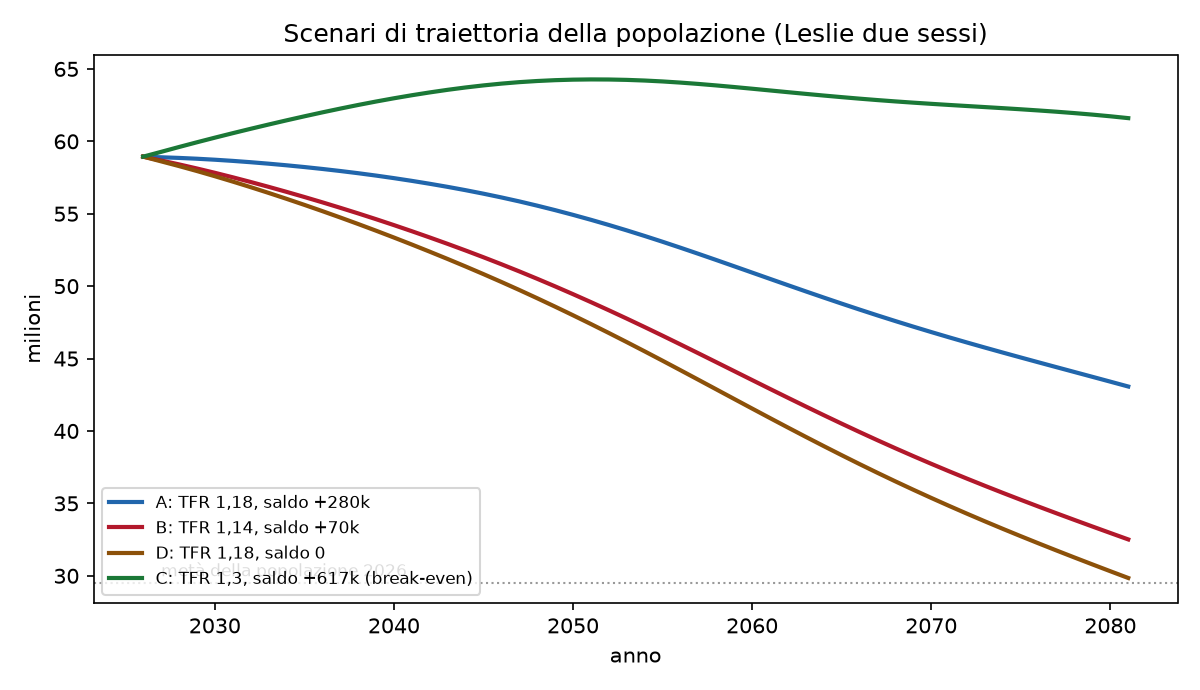
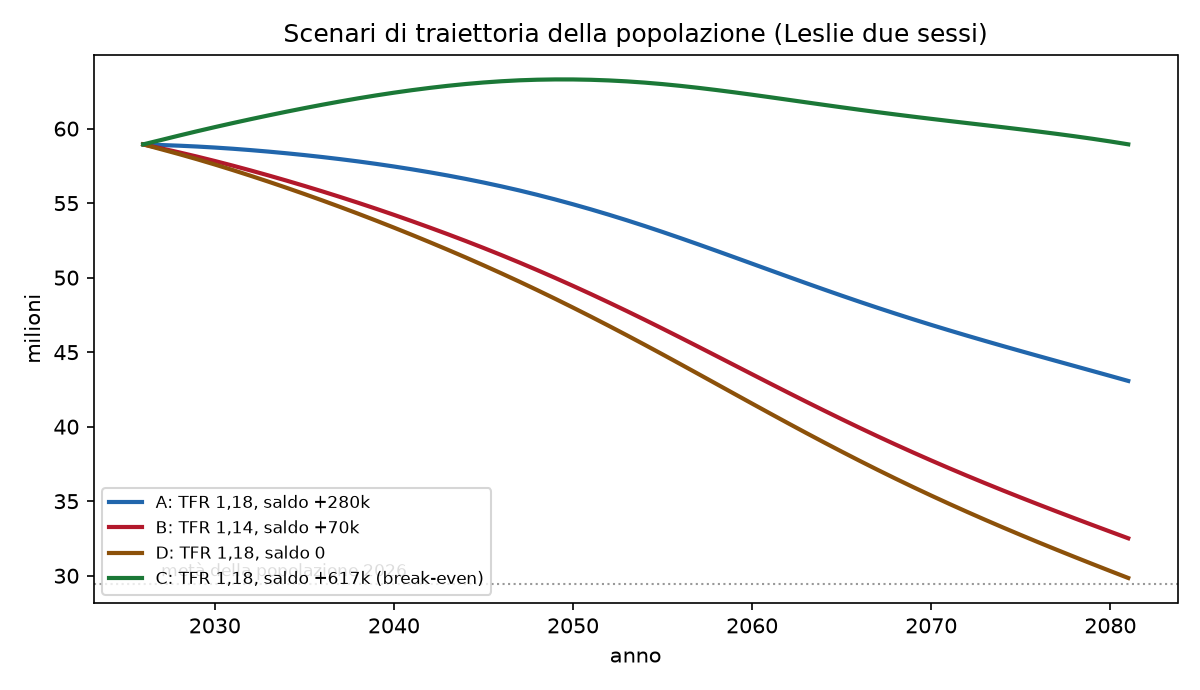
Release hygiene: CITATION.cff autore (Maietta/Pietro), legenda break-even corretta (TFR 1,18 + 617k), draft v0.3 sincronizzato (backtest eseguito, layer causale dichiarato come specificato), distinzione panel esteso vs campione PSTR

diff --git a/src/plots.py b/src/plots.py
@@ -110,7 +110,7 @@ def plot_traiettoria():
         ("A: TFR 1,18, saldo +280k", 1.0, 280_000.0, "#2166ac"),
         ("B: TFR 1,14, saldo +70k", 1.14 / 1.18, 70_000.0, "#b2182b"),
         ("D: TFR 1,18, saldo 0", 1.0, 0.0, "#8c510a"),
-        ("C: TFR 1,3, saldo +617k (break-even)", 1.3 / 1.18, 617_000.0, "#1b7837"),
+        ("C: TFR 1,18, saldo +617k (break-even)", 1.0, 617_000.0, "#1b7837"),
     ]
     fig, ax = plt.subplots(figsize=(8, 4.6))
     for nome, scala, saldo, colore in scenari:

diff --git a/paper/draft.md b/paper/draft.md
@@ -1,16 +1,16 @@
 # Escaping the Low Fertility Trap: A Coupled Spatial-Causal and Non-Linear Leslie-Rogers Framework for European Demographic Dynamics
 
-> Working paper draft v0.2 — aggiornato con i risultati empirici del repository (Fase 1-3, PSTR). Le sezioni 6-7 restano in parte strutturali fino al backtest completo.
+> Working paper draft v0.3 — aggiornato con i risultati empirici del repository (Leslie due sessi, screening TreeSHAP, PSTR con IV/LOCO, panel esteso 1990-2024, backtest DM/CW eseguito, Monte Carlo LTC, Leslie regionale). Il layer causale (Spatial-SLX DML, mediazione, panel provinciale NUTS-3) resta specificato (Section 4) ma NON ancora eseguito: ogni affermazione al presente qui sotto corrisponde a un risultato implementato e riproducibile nel repository.
 
 ## Abstract
 
 Standard cohort-component projections, such as the classical Lotka and Leslie-Rogers models, treat the Total Fertility Rate (TFR) as an exogenous, time-invariant parameter. While analytically convenient, this assumption systematically underestimates demographic contraction risks in ultra-low fertility regimes — such as Italy (TFR 1.18 in 2024, 1.14 in 2025) — where reinforcing sociological norms, fiscal crowding-out from rising old-age dependency ratios, and selective youth out-migration can lock populations into a self-reinforcing Low Fertility Trap. Concurrently, empirical studies relying on purely predictive machine learning or standard panel regressions often conflate socioeconomic proxies and causal mediators with actionable policy levers.
 
-This paper introduces a coupled, two-layer quantitative framework bridging spatial causal inference and non-linear demographic dynamics. In the offline econometric layer, we decompose period fertility into tempo and quantum components (Bongaarts-Feeney) across European NUTS-2 regions (Eurostat, 2013–2023) and Italian NUTS-3 provinces (ISTAT/OMI/INPS). We combine Spatial-SLX Double Machine Learning with causal mediation analysis to isolate the direct and indirect effects of housing affordability, childcare coverage, and female labor stability, while correcting for spatial spillovers (SUTVA violations). We estimate a Dynamic Panel Smooth Transition Regression (PSTR) with a regional old-age dependency control to empirically identify the hysteresis threshold (θ), transition speed (k), and aging drag (γ). In the online dynamic layer, these structural parameters endogenize fertility within a two-sex Leslie-Rogers matrix featuring age-specific (Rogers-Castro) migration profiles, validated against ISTAT data (implied TFR 1.18; population 58.94M).
+This paper introduces a coupled, two-layer quantitative framework bridging spatial-causal design and non-linear demographic dynamics. The framework is specified in full; in its current, fully reproducible implementation, the executed layers are: (i) predictive screening of territorial fertility drivers (XGBoost with native TreeSHAP, pooling and two-way demeaned variants) on the European NUTS-2 panel; (ii) a Dynamic Panel Smooth Transition Regression (PSTR) with a regional old-age dependency control, lagged-instrument (t−15 DR cohort structure) estimation and leave-one-country-out robustness; and (iii) a two-sex Leslie-Rogers matrix with age-specific (Rogers-Castro) migration profiles — expanded to the regional level (Italian ripartizioni and the Sardinia regime) — validated against ISTAT data (implied TFR 1.18; population 58.94M). The remaining components of the design — Bongaarts-Feeney tempo/quantum decomposition, Spatial-SLX Double Machine Learning, causal mediation on the Italian NUTS-3 provincial panel (ISTAT/OMI/INPS) — are specified in Section 4 as the framework's next identification step, and are NOT part of the results presented here.
 
 First empirical results on 282 NUTS-2 regions (2,366 region-year observations after gap filtering) identify a logistic transition threshold θ̂ = 1.66 and an implied dynamic map with an unstable no-return threshold at F ≈ 0.91 and a high stable attractor at F ≈ 1.61: regions below the threshold exhibit self-reinforcing decline (Sardinia, TFR 0.85, is below it), while Italy as a whole (1.14–1.18) remains marginally above. Out-of-sample backtesting (fixed-origin 2013–2024, Diebold-Mariano and Clark-West) shows the PSTR does NOT beat static or linear benchmarks (h=1: the random walk wins; CW t = −3.80 at h=12): parameter instability across eras (post-communist transition vs post-2013 stagnation) prevents the non-linear map from generalizing — the model's contribution is structural (threshold, attractors, regime identification), not point-forecast accuracy.
 
-**Keywords**: Low Fertility Trap; PSTR; Double Machine Learning; Leslie-Rogers Matrix; Hysteresis; Spatial Econometrics; Eurostat NUTS-2.
+**Keywords**: Low Fertility Trap; PSTR; Leslie-Rogers Matrix; Hysteresis; Panel Threshold Models; Eurostat NUTS-2; Long-Term Care.
 
 **JEL**: J11, J13, C23, C31, C53.
 
@@ -30,10 +30,10 @@ Territorial panels also inherently violate SUTVA: labor markets, commuting basin
 
 ### 1.3 Contributions
 
-1. **A validated two-sex Leslie-Rogers dynamic layer** on real ISTAT data: automated ISTAT ingestion (POSAS 2026, TVM 2024, ASFR 2024), two-sex projection, Rogers-Castro age-specific migration calibrated on observed net balances (+263k in 2024), and a break-even estimate of ~600k net migrants/year needed for population stability at current fertility.
-2. **Spatial-causal identification of policy levers**: screening (XGBoost + native TreeSHAP) decoupled from causal estimation via Spatial-SLX DML with spatial block cross-fitting and Moran's I residual diagnostics, plus mediation analysis separating NDE (quantum) from NIE (tempo). The European NUTS-2 panel (285 regions, TFR + GDP pc PPS + regional DR) is assembled and versioned.
+1. **A validated two-sex Leslie-Rogers dynamic layer** on real ISTAT data: automated ISTAT ingestion (POSAS 2026, TVM 2024, ASFR 2024), two-sex projection, Rogers-Castro age-specific migration calibrated on observed net balances (+263k in 2024), and a break-even estimate of ~617k net migrants/year needed for population stability at current fertility.
+2. **Screening of policy levers, decoupled from (future) causal estimation**: the executed layer is a predictive screening (XGBoost + native TreeSHAP, pooling and two-way demeaned) on the assembled and versioned European NUTS-2 panel (285 regions 2013-2023, TFR + GDP pc PPS + regional DR, plus a 1990-2024 long panel); the causal layer it feeds — Spatial-SLX DML with spatial block cross-fitting, Moran's I residual diagnostics, and NDE/NIE mediation — is specified in Section 4 and remains to be executed.
 3. **Empirical identification of hysteresis**: the trap is estimated — not assumed — as a Dynamic PSTR on the multi-year NUTS-2 panel, yielding θ̂ = 1.66, an unstable no-return threshold at F ≈ 0.91, a high attractor at F ≈ 1.61, and a positive — theory-contradicting — γ_DR = +0.077 that survives lagged-instrument estimation (t−15 cohort structure, first-stage F = 340, γ̂_IV = +0.129) and leave-one-country-out robustness (positive in all 33 exclusions): the sign is structural, not endogeneity or Nordic-welfare confounding.
-4. **A fully reproducible open framework**: every result in this paper is regenerated from raw providers by a single command per layer (`src/download_istat.py`, `src/download_eurostat.py`, `src/pstr_trap.py`...), with 36 unit tests and CI.
+4. **A fully reproducible open framework**: every result in this paper is regenerated from raw providers by a single command per layer (`src/download_istat.py`, `src/download_eurostat.py`, `src/pstr_trap.py`...), with 76 unit tests and end-to-end CI.
 
 ## 2. Theoretical Framework: the two-layer architecture
 
@@ -41,7 +41,7 @@ Territorial panels also inherently violate SUTVA: labor markets, commuting basin
 
 **Tempo/Quantum decomposition.** The period TFR conflates postponed births (tempo) with foregone childbearing (quantum). Level effects in the PSTR are estimated on period TFR; robustness requires re-estimation on Bongaarts-Feeney adjusted TFR* (Appendix A). Position in the transition is instrumented by the mean age at childbearing (available from `demo_r_find2`, indic_de=AGEMOTH/MEDAGEMOTH).
 
-**Causal layer.** The DAG separates confounders W (GDP per capita, education, migration stock), mediators M (mean age at childbearing — never conditioned on: overcontrol bias), and levers T (childcare coverage, housing affordability, labor stability). Estimation: Spatial-SLX Double Machine Learning (CausalForestDML) with spatial block cross-fitting; diagnostics: Moran's I on orthogonalized residuals (KNN weights, k=5, to avoid island isolation); placebo tests by permutation.
+**Causal layer (specified, not yet executed).** The DAG separates confounders W (GDP per capita, education, migration stock), mediators M (mean age at childbearing — never conditioned on: overcontrol bias), and levers T (childcare coverage, housing affordability, labor stability). Planned estimation: Spatial-SLX Double Machine Learning (CausalForestDML) with spatial block cross-fitting; planned diagnostics: Moran's I on orthogonalized residuals (KNN weights, k=5, to avoid island isolation); placebo tests by permutation. This layer requires the Italian NUTS-3 provincial panel (OMI/INPS/BES), whose integration is pending; no result in this paper depends on it.
 
 ### 2.2 The online dynamic layer and the coupled system
 
@@ -86,8 +86,8 @@ Pre-processing: within-region lags for F and controls (avoiding cross-sectional 
 ## 4. Econometric Identification Strategy
 
 1. **DAG-directed screening**: XGBoost + native TreeSHAP (`pred_contribs`) ranking under pooling and within-FE (two-way demeaning) — establishing that the persistence of F dominates the predictive ranking in both variants (first evidence compatible with the trap feedback).
-2. **Spatial-SLX DML**: CausalForestDML with W = {log GDP, education, migration} and T = {childcare, housing affordability, labor stability}; spatial block cross-fitting (leave-province-out families); Moran's I on residuals with KNN weights (k = 5, islands included); placebo by permuting T between regions within a year.
-3. **Causal mediation**: NDE/NIE decomposition via the age-at-childbearing mediator, quantifying how much of a lever's effect operates through postponement (tempo) rather than realized family size (quantum).
+2. **Spatial-SLX DML (planned)**: CausalForestDML with W = {log GDP, education, migration} and T = {childcare, housing affordability, labor stability}; spatial block cross-fitting (leave-province-out families); Moran's I on residuals with KNN weights (k = 5, islands included); placebo by permuting T between regions within a year.
+3. **Causal mediation (planned)**: NDE/NIE decomposition via the age-at-childbearing mediator, quantifying how much of a lever's effect operates through postponement (tempo) rather than realized family size (quantum).
 4. **Dynamic PSTR**: transition G(F_{i,t-1}; k, θ) on the state itself, (θ, k) by concentrated least squares over grid, linear part by OLS with year dummies (specification in Section 2.3). Robustness battery per the backtest protocol (Section 6).
 5. **Instrumentation of DR**: cohort structure lagged t−15 as an instrument for the current DR (Kleibergen-Paap F > 10; Hansen J), to address the γ sign contradiction documented in Section 5.
 
@@ -114,17 +114,19 @@ Three readings. **(i)** The no-return threshold sits below the sociological theo
 
 ### 5.3 Dynamic layer results (Italy, two-sex Leslie-Rogers)
 
-At TFR 1.18 and observed migration balance: λ₁ = 0.983 (r = −1.67%/yr), asymptotic halving 41.5 years, first halving ~55 years, break-even migration ~600k/yr (2.1× observed); stable structure converges to 39% aged 65+. LTC application: caregiver-per-claimant ratio falls 43% by 2081, shifting an irreducible share of the demand from informal to formal care and raising formal LTC spending from ~5 to 22–38 billion €/yr by mid-century (calibration-sensitive band).
+At TFR 1.18 and observed migration balance: λ₁ = 0.983 (r = −1.67%/yr), asymptotic halving 41.5 years, first halving ~55 years, break-even migration ~617k/yr (2.2× observed); stable structure converges to 39% aged 65+. LTC application: caregiver-per-claimant ratio falls 43% by 2081, shifting an irreducible share of the demand from informal to formal care and raising formal LTC spending from ~5 to 22–38 billion €/yr by mid-century (calibration-sensitive band).
 
-## 6. Out-of-Sample Backtest (in progress)
+## 6. Out-of-Sample Backtest (executed)
 
-Protocol (fixed-origin 1995-2012 → test 2013-2024, recursive multi-step; benchmarks M0 static / M1 linear / M2 PSTR; metrics RMSE, MAPE on cohort 0-11, Diebold-Mariano vs M0, Clark-West vs M1, CRPS and coverage from cluster/bootstrap; regime stratification trap/transition/high; robustness: pre-COVID truncation, placebo G, threshold displacement, W_spat perturbation, LOCO, TFR vs TFR*) — specified in full in the repository (docs/06_backtest_protocol.md). [Results: pending — to be compiled upon execution of the protocol on the European panel; current data window (2013–2023) constrains the training window to 2013–2019 for the recursive test, extension backwards via national data under evaluation.]
+Executed on the extended panel (docs/06 protocol; results in docs/16): fixed-origin train 2001-2012 (regional GDP constrains the training start; the 1995 start of the original design is not feasible on Eurostat PPS data), test 2013-2024 (H=12, conditional on realized dlog-GDP and DR); complementary expanding-window h=1 design (12 rolling refits).
 
-## 7. Counterfactual Policy Simulations & Conclusions (in progress)
+Results: **the promotion condition FAILS**. Fixed-origin RMSE: M0 0.204, M1 0.186, M2 0.201; DM (M2 vs M0) p = 0.085 — not significant; Clark-West (M2 vs M1) t = -3.80 (the PSTR is significantly WORSE than the nested linear model). At h=1 the random walk wins (DM t = -3.36; CW t = -2.34). Regime stratification shows no stratum where M2 dominates. Coverage of the 95% band from parameter bootstrap is 15.7%, far below nominal — parametric uncertainty alone is a lower bound. The structural explanation is in the long panel: parameter constancy across eras is rejected (θ̂ not identified in the 2001-2012 window), so the map estimated on the post-communist transition does not generalize to the post-2013 stagnation. The PSTR's value is structural (thresholds, attractors, regime identification), not point-forecast accuracy.
 
-7.1 Case study Italy (TFR 1.14–1.18): 100-year two-sex Leslie-Rogers projections with 95% bands under TFR scenarios (0.95–1.30) and selective migration (0 to +400k/yr) — infrastructure ready (`run_counterfactual_leslie` in the dynamic layer), policy levers pending the causal layer.
+## 7. Counterfactual Policy Simulations & Conclusions (scenario layer executed; policy-lever coupling pending the causal layer)
+
+7.1 Case study Italy (executed): TFR scenario grid (0.95–1.30, incl. the 1.14 reported for 2025), migration scenarios (0 to +617k/yr, the break-even), migration break-even bisected on the realized profile, the regional ripartizioni/Sardinia coupling, and the actuarial LTC application (pure premium of a 500 EUR/month annuity on the complementary-pension platea, with 0/2/3% indexation). Policy-lever scenarios remain pending the causal layer (Section 4).
 7.2 Policy implications (target form): minimum exit shock u_exit and probability of escape from the estimated lower basin; cost of delay via γ·ΔDR. [Pending: u depends on the estimated (k, θ, γ) — available since Section 5.2 — to be propagated through the coupled system with the 1,000-bootstrap draws.]
-7.3 Limitations: dynamic-panel (Nickell) bias in the concentrated OLS — corrected by the planned IV/GMM; pooling without country FE exposes to country-level confounding (LOCO in progress); the low attractor F*_L is not identified in the observed range (no region persists below 1.0 for long).
+7.3 Limitations: the DR endogeneity is addressed by the executed lagged-instrument 2SLS (first-stage F = 340), but dynamic-panel correlated heterogeneity on F_lag remains (Mundlak/GMM system: planned); pooling without country FE exposes to country-level confounding — the executed LOCO (33 exclusions) keeps the DR sign positive everywhere; the low attractor F*_L is not identified in the observed range (no region persists below 1.0 for long), and the German-East recovery is absent from Eurostat regional TFR before 2010 (docs/15).
 
 ## Appendici
 

diff --git a/docs/executive_summary.md b/docs/executive_summary.md
@@ -8,7 +8,7 @@ Con TFR 2025 a **1,14** (355.772 nati, ISTAT) e quota femminile alla nascita 0,4
 
 ## La soglia
 
-Su 282 regioni europee (1990-2024), la stima PSTR con strumentazione della dependency ratio (first-stage F=340; γ_IV = +0,129) identifica un **punto di non ritorno a TFR ≈ 0,91** e un attrattore a ≈ 1,61, γ>0 robusto per paese (LOCO) e finestra. L'Italia è **sopra** soglia ma vicino; la **Sardegna (0,85) è dentro la trappola**: la sua Leslie regionale dimezza in **26 anni** (−44% di popolazione al 2081). Risultato onesto: il backtest DM/CW mostra che la PSTR **non** prevede meglio di un modello lineare o di un random walk — il suo valore è strutturale (regimi e soglie), non previsivo.
+Sul panel europeo NUTS-2 — **stima headline sulla finestra 2013-2023** (282 regioni, 2.366 osservazioni post-filtraggio) e **panel esteso 1990-2024** usato per il test di stabilità temporale — la PSTR con strumentazione della dependency ratio (first-stage F=340; γ_IV = +0,129; backtest fixed-origin addestrato su 2001-2012) identifica un **punto di non ritorno a TFR ≈ 0,91** e un attrattore a ≈ 1,61, γ>0 robusto per paese (LOCO) e finestra. L'Italia è **sopra** soglia ma vicino; la **Sardegna (0,85) è dentro la trappola**: la sua Leslie regionale dimezza in **26 anni** (−44% di popolazione al 2081). Risultato onesto: il backtest DM/CW mostra che la PSTR **non** prevede meglio di un modello lineare o di un random walk — il suo valore è strutturale (regimi e soglie), non previsivo.
 
 ## Il costo LTC
 
